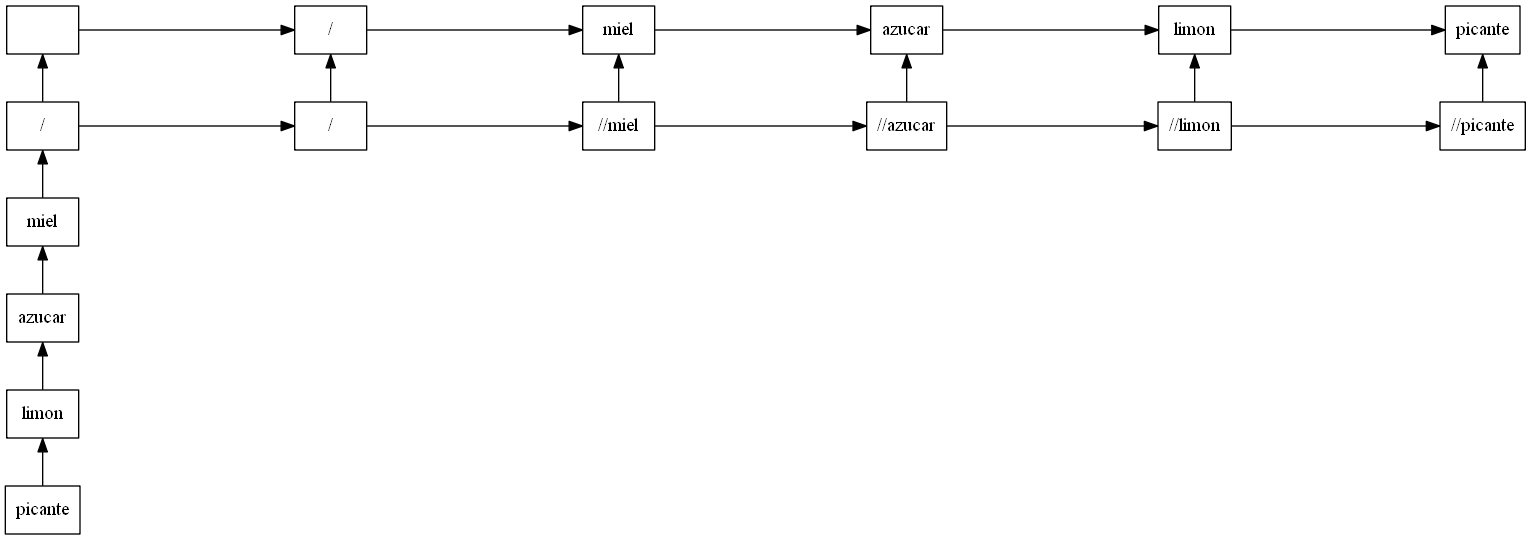
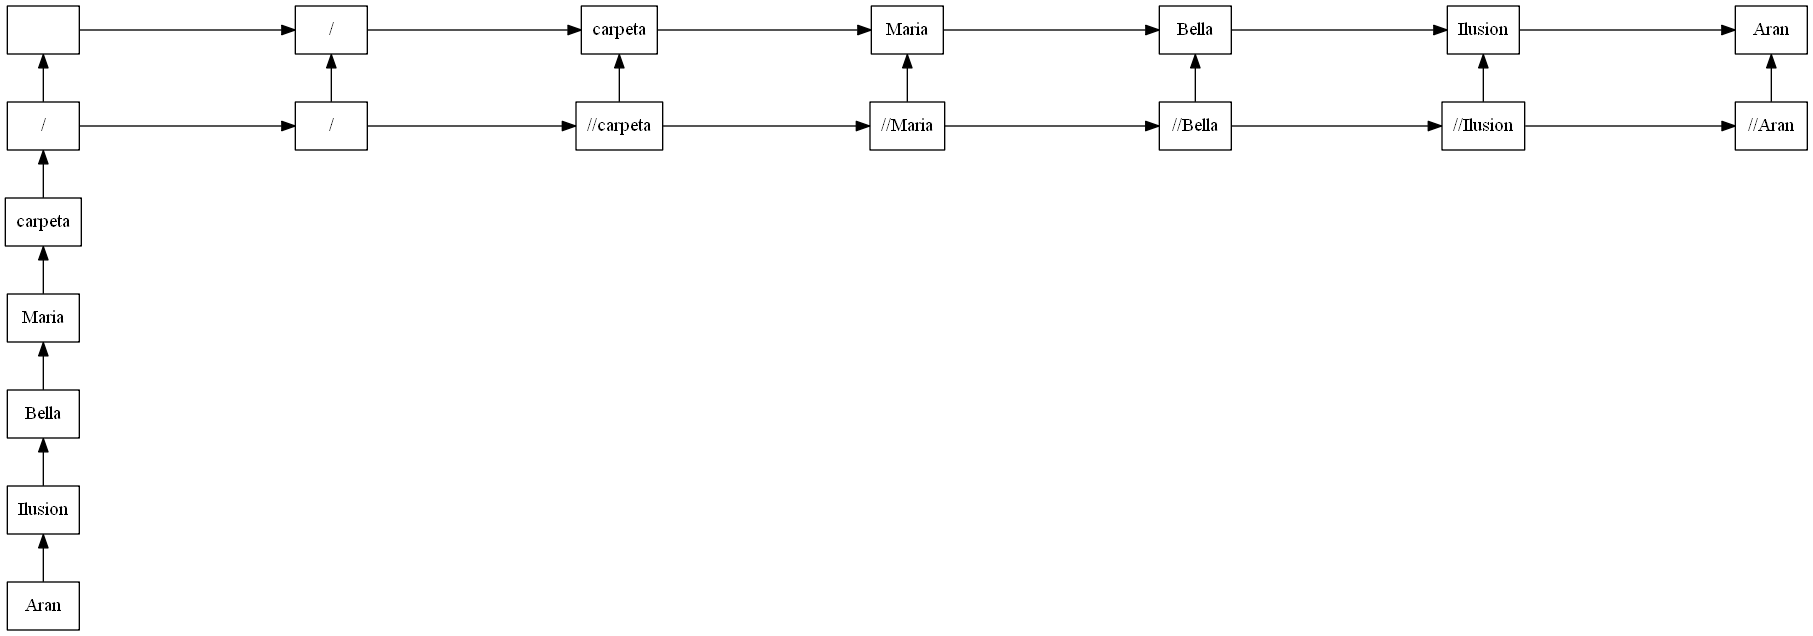
Reportes optimizados

diff --git a/src/proyecto2/reporteT.java b/src/proyecto2/reporteT.java
@@ -21,18 +21,30 @@ import javax.swing.JLabel;
  */
 public class reporteT extends javax.swing.JFrame {
     
-     
+     String s;
+     tablaHash th;
      
     /**
      * Creates new form visorImagenes
      */
-    public reporteT() {
+    public reporteT(String s,tablaHash th) {
         initComponents();
         this.setTitle("Tabla Hash");
-        
         this.setVisible(true);
+        this.th=th;
+        th.Graficar();
+        this.s = s;
+        mostrar(s);
     }
     
+    
+        public void mostrar(String i){
+        ImageIcon imagen = new ImageIcon(i);
+        imagen.getImage().flush();
+        Imagen.setIcon(imagen);
+        //Imagen.repaint();
+        
+    }
   
 
     /**
@@ -45,15 +57,13 @@ public class reporteT extends javax.swing.JFrame {
     private void initComponents() {
 
         jScrollPane1 = new javax.swing.JScrollPane();
-        jLabel1 = new javax.swing.JLabel();
+        Imagen = new javax.swing.JLabel();
 
         setDefaultCloseOperation(javax.swing.WindowConstants.DISPOSE_ON_CLOSE);
         setBounds(new java.awt.Rectangle(200, 100, 0, 0));
 
         jScrollPane1.setCursor(new java.awt.Cursor(java.awt.Cursor.CROSSHAIR_CURSOR));
-
-        jLabel1.setIcon(new javax.swing.ImageIcon(getClass().getResource("/proyecto2/Tabla.png"))); // NOI18N
-        jScrollPane1.setViewportView(jLabel1);
+        jScrollPane1.setViewportView(Imagen);
 
         javax.swing.GroupLayout layout = new javax.swing.GroupLayout(getContentPane());
         getContentPane().setLayout(layout);
@@ -77,7 +87,7 @@ public class reporteT extends javax.swing.JFrame {
 
 
     // Variables declaration - do not modify//GEN-BEGIN:variables
-    private javax.swing.JLabel jLabel1;
+    private javax.swing.JLabel Imagen;
     private javax.swing.JScrollPane jScrollPane1;
     // End of variables declaration//GEN-END:variables
 }

diff --git a/src/proyecto2/Inicio.java b/src/proyecto2/Inicio.java
@@ -129,19 +129,21 @@ tablaHash th = new tablaHash(7);
     private void jButton2ActionPerformed(java.awt.event.ActionEvent evt) {//GEN-FIRST:event_jButton2ActionPerformed
         // TODO add your handling code here:
         Registrer r = new Registrer(this,th);
-        th.Graficar();
+       // th.Graficar();
         this.setVisible(false);
     }//GEN-LAST:event_jButton2ActionPerformed
 
     private void jButton3ActionPerformed(java.awt.event.ActionEvent evt) {//GEN-FIRST:event_jButton3ActionPerformed
         // TODO add your handling code here:
-        reporteT t = new reporteT();
+        
+        reporteT t = new reporteT("Tabla.png",th);
     }//GEN-LAST:event_jButton3ActionPerformed
 
     private void jButton5ActionPerformed(java.awt.event.ActionEvent evt) {//GEN-FIRST:event_jButton5ActionPerformed
         // TODO add your handling code here:
-        th.Cargamasiva();
         th.Graficar();
+        th.Cargamasiva();
+        //
     }//GEN-LAST:event_jButton5ActionPerformed
 
     /**

diff --git a/src/proyecto2/tablaHash.java b/src/proyecto2/tablaHash.java
@@ -109,7 +109,6 @@ public class tablaHash {
      
      
      public void Graficar(){
-     
          lista.graphviz();
          lista.dot();
         // lista.open();
@@ -152,13 +151,12 @@ public class tablaHash {
        Salto= c.split("\n");
           for (int i = 1; i < Salto.length; i++) {
              coma= Salto[i].split(",");
-              for (int j = 0; j < coma.length; j++) {
-                  crecer(coma[0], coma[1]);
-              }
-             
+                crecer(coma[0], coma[1]);
+
           }
       
       Graficar();
+      
       }
       
       public usuario ingrsado(){

diff --git a/src/proyecto2/lista.java b/src/proyecto2/lista.java
@@ -171,7 +171,7 @@ public class lista {
     
     public void graphviz(){
         String t="digraph D { \n  node [shape=plaintext]";
-        String rul=  ".\\src\\proyecto2\\Tabla.txt";
+        String rul=  "Tabla.txt";
 
         nodoLista actual=primero;
         t+="\n   nodo [";
@@ -201,7 +201,7 @@ public class lista {
         
       
     public void dot(){
-       String pro= "dot  -Tpng Tabla.txt -o .\\src\\proyecto2\\Tabla.png";
+       String pro= "dot  -Tpng Tabla.txt -o Tabla.png";
            try {
                ProcessBuilder p= new ProcessBuilder();
        p.command("cmd.exe","/c",pro);

diff --git a/src/proyecto2/Registrer.java b/src/proyecto2/Registrer.java
@@ -143,6 +143,7 @@ public class Registrer extends javax.swing.JFrame {
     private void jButton1ActionPerformed(java.awt.event.ActionEvent evt) {//GEN-FIRST:event_jButton1ActionPerformed
         // TODO add your handling code here:
         th.crecer(jTextField1.getText(), jTextField2.getText());
+        th.Graficar();
     }//GEN-LAST:event_jButton1ActionPerformed
 
     /**

diff --git a/src/proyecto2/reporteG.java b/src/proyecto2/reporteG.java
@@ -20,9 +20,9 @@ ImageIcon Archivo = new ImageIcon("Grafo.png");
         initComponents();
         
         this.setVisible(true);
+        Archivo.getImage().flush();
         this.Ventana.setIcon(Archivo);
-        this.Ventana.updateUI();
-        this.Ventana.getGraphics();
+       
        
     }
 

diff --git a/src/proyecto2/reporteM.java b/src/proyecto2/reporteM.java
@@ -32,9 +32,8 @@ public class reporteM extends javax.swing.JFrame {
 
     public void mostrar(String i){
         ImageIcon imagen = new ImageIcon(i);
+        imagen.getImage().flush();
         Imagen.setIcon(imagen);
-    
-    
     
     }
     
